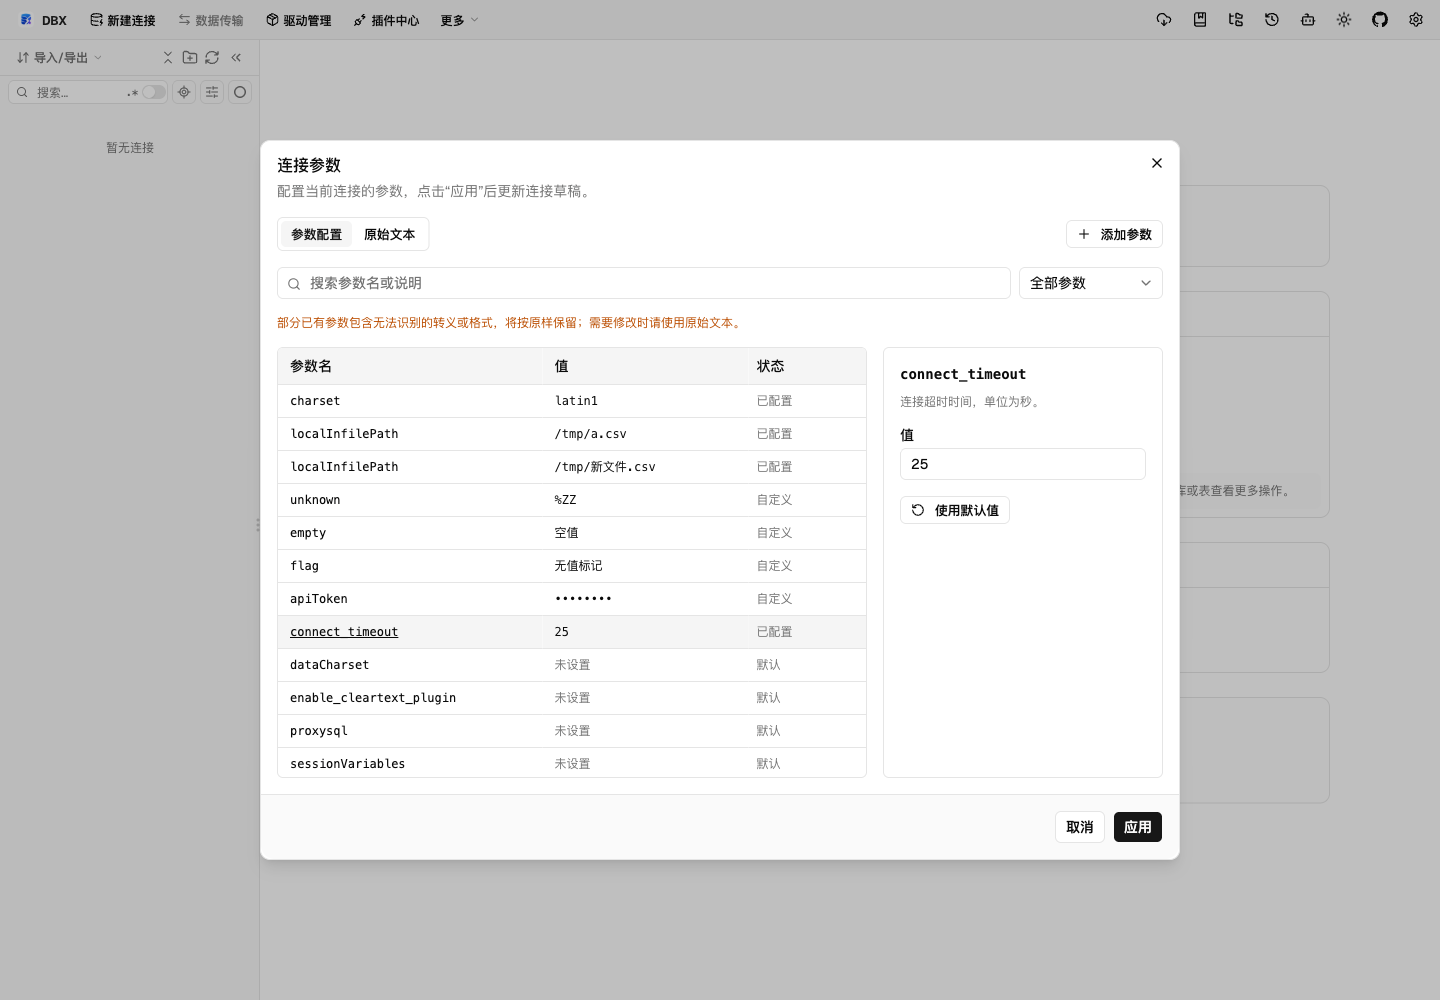
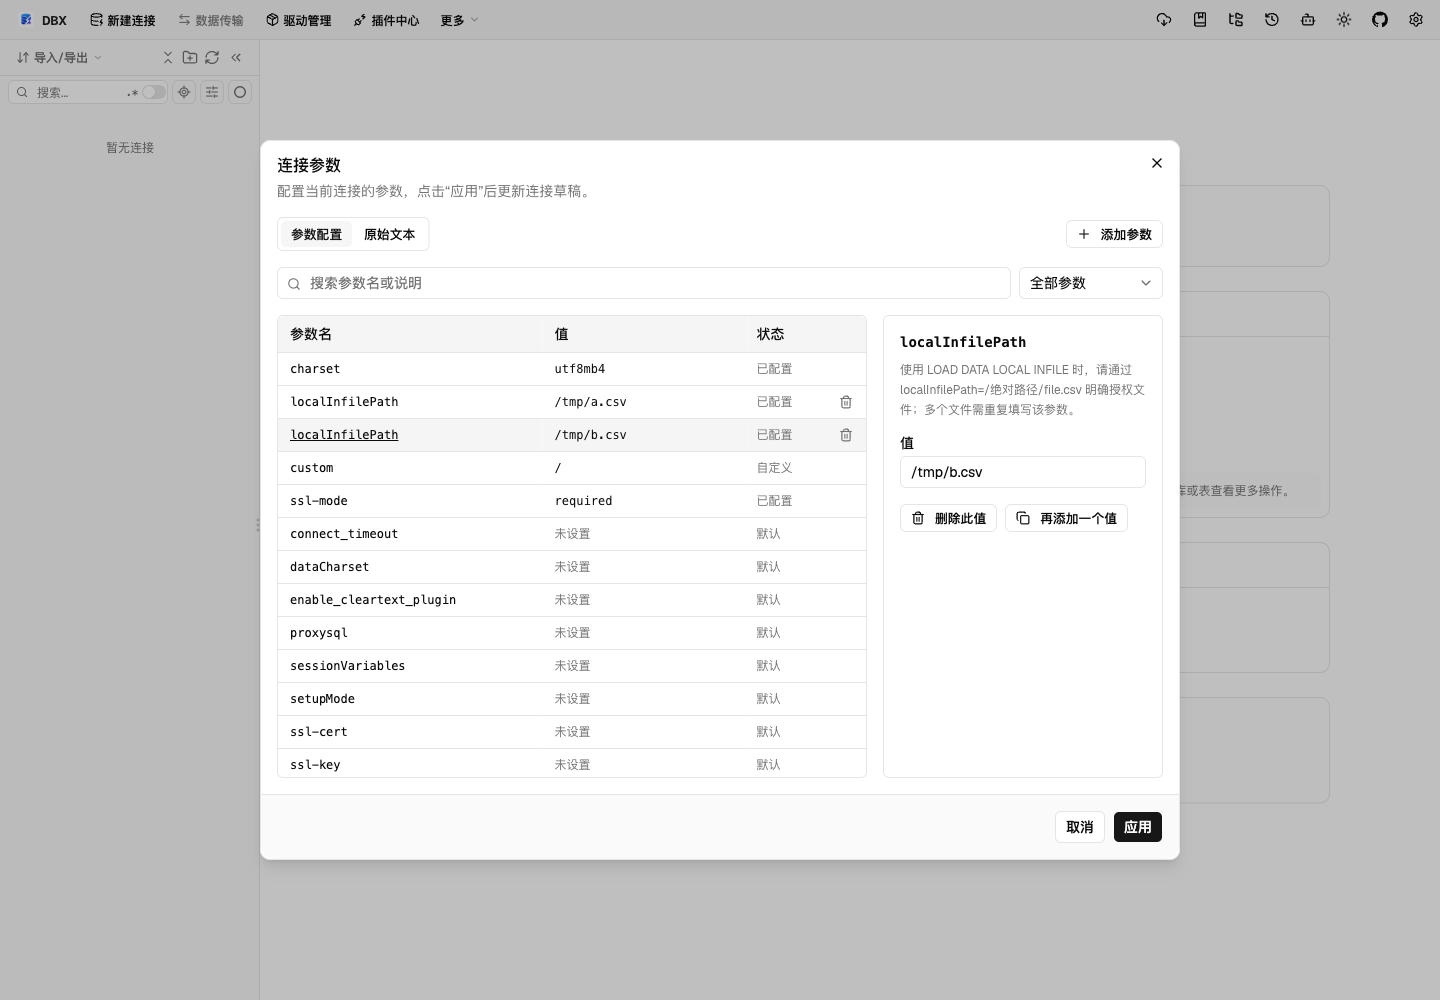
fix(connection): clarify repeated value removal and scope supported parameters

Changed region(s): [[0.1875, 0.31, 0.5938, 0.775], [0.625, 0.31, 0.7812, 0.527], [0.5312, 0.713, 0.5625, 0.775]]

diff --git a/apps/desktop/src/components/connection/ConnectionParametersDialog.vue b/apps/desktop/src/components/connection/ConnectionParametersDialog.vue
@@ -55,6 +55,7 @@ const filteredRows = computed(() => {
   return rows.value.filter((row) => (filter.value !== "configured" || !!row.entry) && (filter.value !== "custom" || (!!row.entry && !row.definition)) && (!query || `${row.key} ${description(row.definition)}`.toLowerCase().includes(query)));
 });
 const selected = computed(() => rows.value.find((row) => row.id === selectedId.value));
+const selectedChoices = computed(() => selected.value?.definition?.choices ?? ["true", "false"]);
 const serialized = computed(() => writeConnectionParameters(document.value, entries.value));
 const externalChanged = computed(() => open.value && ((props.modelValue ?? "") !== sourceAtOpen.value || contextIdentity.value !== contextAtOpen.value));
 const sensitive = computed(() => rows.value.some((row) => !!row.entry && (row.definition?.secret || parameterIsSecret(row.key))));
@@ -120,11 +121,14 @@ function addEntry(row?: Row) {
   search.value = "";
   selectedId.value = entry.id;
 }
-function removeEntry() {
-  if (!selected.value?.entry) return;
-  const definition = selected.value.definition;
-  entries.value = entries.value.filter((entry) => entry.id !== selectedId.value);
-  selectedId.value = definition && rows.value.some((row) => row.id === `default:${definition.name}`) ? `default:${definition.name}` : (rows.value[0]?.id ?? "");
+function removeEntry(id = selectedId.value) {
+  const row = rows.value.find((row) => row.id === id);
+  if (!row?.entry) return;
+  const index = entries.value.findIndex((entry) => entry.id === id);
+  entries.value = entries.value.filter((entry) => entry.id !== id);
+  if (selectedId.value !== id) return;
+  const sibling = row.definition && rows.value.find((item) => item.definition === row.definition);
+  selectedId.value = sibling?.id ?? entries.value[index]?.id ?? entries.value[index - 1]?.id ?? rows.value[0]?.id ?? "";
 }
 function apply() {
   if (externalChanged.value || invalid.value) return;
@@ -188,7 +192,12 @@ function rowValue(row: Row): string {
                     <button type="button" class="block w-full cursor-pointer truncate text-left font-mono text-xs hover:underline focus-visible:underline" :title="row.key" @click="selectedId = row.id">{{ row.key || tr("newParameter") }}</button>
                   </td>
                   <td class="truncate px-3 py-2 font-mono text-xs" :class="row.entry ? '' : 'text-muted-foreground'">{{ rowValue(row) }}</td>
-                  <td class="px-2 py-2 text-xs text-muted-foreground">{{ !row.entry ? tr("default") : row.definition ? tr("configured") : tr("custom") }}</td>
+                  <td class="px-2 py-1 text-xs text-muted-foreground">
+                    <div class="flex items-center justify-between gap-1">
+                      <span>{{ !row.entry ? tr("default") : row.definition ? tr("configured") : tr("custom") }}</span>
+                      <Button v-if="row.entry && row.definition?.repeatable" type="button" variant="ghost" size="icon" class="size-6 shrink-0" :aria-label="`${tr('removeValue')} (${row.key})`" @click="removeEntry(row.id)"><Trash2 class="size-3.5" /></Button>
+                    </div>
+                  </td>
                 </tr>
               </tbody>
             </table>
@@ -211,18 +220,13 @@ function rowValue(row: Row): string {
             <div class="space-y-1.5">
               <Label for="connection-parameter-value">{{ tr("value") }}<span v-if="selected.definition?.required"> *</span></Label>
               <PasswordInput v-if="selected.definition?.secret || parameterIsSecret(selected.key)" id="connection-parameter-value" :model-value="selected.value" :disabled="selected.entry && !selected.entry.editable" @update:model-value="setValue($event || '')" />
-              <select
-                v-else-if="selected.definition?.choices || selected.definition?.type === 'boolean'"
-                id="connection-parameter-value"
-                class="h-8 w-full rounded-md border bg-background px-2 text-sm"
-                :value="selected.entry ? selected.value : ''"
-                :disabled="selected.entry && !selected.entry.editable"
-                @change="setValue(($event.target as HTMLSelectElement).value)"
-              >
-                <option v-if="!selected.entry" value="" disabled>{{ tr("default") }}</option>
-                <option v-if="selected.entry && !(selected.definition.choices || ['true', 'false']).includes(selected.value)" :value="selected.value">{{ selected.value || tr("emptyValue") }}</option>
-                <option v-for="value in selected.definition.choices || ['true', 'false']" :key="value" :value="value">{{ value }}</option>
-              </select>
+              <Select :key="selected.id" v-else-if="selected.definition?.choices || selected.definition?.type === 'boolean'" :model-value="selected.value || undefined" :disabled="selected.entry && !selected.entry.editable" @update:model-value="setValue(String($event))">
+                <SelectTrigger id="connection-parameter-value" class="w-full"><SelectValue :placeholder="selected.entry ? tr('emptyValue') : tr('default')" /></SelectTrigger>
+                <SelectContent>
+                  <SelectItem v-if="selected.entry && selected.value && !selectedChoices.includes(selected.value)" :value="selected.value">{{ selected.value }}</SelectItem>
+                  <SelectItem v-for="value in selectedChoices" :key="value" :value="value">{{ value }}</SelectItem>
+                </SelectContent>
+              </Select>
               <Input
                 v-else
                 id="connection-parameter-value"
@@ -236,7 +240,9 @@ function rowValue(row: Row): string {
             </div>
             <label v-if="selected.entry?.editable && !selected.definition" class="flex items-center gap-2 text-xs"><input type="checkbox" :checked="!selected.entry.hasEquals" @change="selected.entry.hasEquals = !($event.target as HTMLInputElement).checked" />{{ tr("bareFlag") }}</label>
             <div class="flex flex-wrap gap-2">
-              <Button v-if="selected.entry" type="button" size="sm" variant="outline" @click="removeEntry"><RotateCcw v-if="selected.definition" class="mr-1.5 size-3.5" /><Trash2 v-else class="mr-1.5 size-3.5" />{{ selected.definition ? tr("reset") : tr("remove") }}</Button>
+              <Button v-if="selected.entry" type="button" size="sm" variant="outline" @click="removeEntry()"
+                ><RotateCcw v-if="selected.definition && !selected.definition.repeatable" class="mr-1.5 size-3.5" /><Trash2 v-else class="mr-1.5 size-3.5" />{{ selected.definition?.repeatable ? tr("removeValue") : selected.definition ? tr("reset") : tr("remove") }}</Button
+              >
               <Button v-if="selected.definition?.repeatable" type="button" size="sm" variant="outline" @click="addEntry(selected)"><Copy class="mr-1.5 size-3.5" />{{ tr("addAnother") }}</Button>
             </div>
           </div>

diff --git a/apps/desktop/src/lib/connection/connectionParameterCatalog.ts b/apps/desktop/src/lib/connection/connectionParameterCatalog.ts
@@ -24,7 +24,7 @@ export interface ConnectionParameterDefinition {
   descriptionKey?: string;
   source: "dbx" | "driver";
   /** Existing controls edit the same url_params string, rather than separate copies. */
-  managedBy?: "tls" | "charset" | "legacyEncoding";
+  managedBy?: "tls" | "charset";
 }
 
 export interface ConnectionParameterMetadata {
@@ -56,7 +56,6 @@ const POSTGRES_PARAMETERS = [
   param("connect_timeout", "integer", "Connection timeout in seconds.", "连接超时时间，单位为秒。", { min: 1 }),
   param("options", "string", "Server startup options, such as -c search_path=app,public.", "服务端启动选项，例如 -c search_path=app,public。"),
   param("currentSchema", "string", "Default schema translated by DBX into PostgreSQL startup options.", "默认 Schema；DBX 将其转换为 PostgreSQL 启动选项。"),
-  param("stringtype", "enum", "String bind type used by DBX's PostgreSQL driver.", "DBX PostgreSQL 驱动的字符串绑定类型。", { choices: ["unspecified", "varchar"] }),
   param("sslmode", "enum", "TLS mode, shared with the TLS/SSL tab.", "TLS 连接模式，与 TLS/SSL 页共用配置。", { choices: ["disable", "prefer", "require", "verify-ca", "verify-full"], managedBy: "tls" }),
   param("sslrootcert", "file", "Root CA certificate path.", "根 CA 证书路径。", { managedBy: "tls" }),
   param("sslcert", "file", "Client certificate path.", "客户端证书路径。", { managedBy: "tls" }),
@@ -66,7 +65,6 @@ const POSTGRES_PARAMETERS = [
 const ORACLE_PARAMETERS = [
   param("DBX_LEGACY_CHARSET", "enum", "Historical byte compatibility for US7ASCII databases using the Thin driver.", "Thin 驱动对 US7ASCII 数据库历史字节的兼容编码。", {
     choices: ["ZHS16GBK", "ZHS32GB18030", "AL32UTF8", "ZHT16MSWIN950"],
-    managedBy: "legacyEncoding",
     descriptionKey: "connection.oracleLegacyCharsetHint",
   }),
 ];
@@ -84,11 +82,22 @@ export function connectionParameterSyntax(context: ConnectionParameterContext): 
 
 export function connectionParameterCatalog(context: ConnectionParameterContext): ConnectionParameterDefinition[] {
   switch (context.db_type) {
-    case "mysql":
+    case "mysql": {
+      const profile = context.driver_profile?.trim().toLowerCase() ?? "";
+      // ConnectionConfig::needs_bare_mysql() routes these profiles through a fixed
+      // Compatible setup mode. URL normalization also drops charset and may force
+      // cleartext authentication; advertising those as overrides would be misleading.
+      const bare = ["doris", "selectdb", "starrocks", "oceanbase", "manticoresearch"].includes(profile);
       return [
-        ...MYSQL_PARAMETERS.filter((definition) => definition.name !== "dataCharset" || !context.driver_profile || context.driver_profile === "mysql"),
-        ...(["doris", "selectdb", "starrocks"].includes(context.driver_profile ?? "") ? [param("catalog", "string", "External catalog selected before the database.", "进入数据库前切换的外部 Catalog。")] : []),
+        ...MYSQL_PARAMETERS.filter((definition) => {
+          if (definition.name === "dataCharset" && profile && profile !== "mysql") return false;
+          if (bare && ["charset", "dataCharset", "setupMode", "proxysql", "enable_cleartext_plugin"].includes(definition.name)) return false;
+          if (bare && definition.managedBy === "tls" && !["doris", "starrocks"].includes(profile)) return false;
+          return true;
+        }),
+        ...(["doris", "selectdb", "starrocks"].includes(profile) ? [param("catalog", "string", "External catalog selected before the database.", "进入数据库前切换的外部 Catalog。")] : []),
       ];
+    }
     case "postgres":
     case "redshift":
       return [...POSTGRES_PARAMETERS];

diff --git a/apps/desktop/src/components/connection/ConnectionDialog.vue b/apps/desktop/src/components/connection/ConnectionDialog.vue
@@ -100,7 +100,6 @@ import {
   supportsIdleTimeout,
 } from "@/lib/connection/timeoutLimits";
 import { buildOracleTnsConnectionString, normalizeOracleTnsAdminPath, parseOracleTnsConnectionString } from "@/lib/connection/oracleTnsConnection";
-import { ORACLE_LEGACY_CHARSETS, oracleLegacyCharset, withOracleLegacyCharset } from "@/lib/connection/oracleLegacyCharset";
 import { applyConnectionDeepLinkUpdate, resolveConnectionDeepLinkUpdate } from "@/lib/connection/connectionDeepLinkUpdate";
 import {
   connectionDeepLinkServiceHydrationValue,
@@ -3690,13 +3689,6 @@ function persistOracleOciClientPath() {
  * global default for reuse.
  */
 const OCI_NLS_LANG_FOLLOW_GLOBAL = "__follow_global__";
-const ORACLE_LEGACY_CHARSET_DISABLED = "__disabled__";
-const oracleLegacyCharsetSelection = computed(() => oracleLegacyCharset(form.value.url_params) || ORACLE_LEGACY_CHARSET_DISABLED);
-function onOracleLegacyCharsetSelected(value: unknown) {
-  const charset = typeof value === "string" && value !== ORACLE_LEGACY_CHARSET_DISABLED ? value : "";
-  form.value.url_params = withOracleLegacyCharset(form.value.url_params, charset);
-  resetTestState();
-}
 const ORACLE_NLS_LANG_OPTIONS = [
   "AMERICAN_AMERICA.AL32UTF8",
   "AMERICAN_AMERICA.UTF8",
@@ -10957,26 +10949,6 @@ function openExternalUrl(url: string) {
                         <span class="text-sm text-muted-foreground">KiB</span>
                       </div>
                       <p class="text-xs text-muted-foreground">{{ t("settings.redisValuePreviewLimitDescription") }}</p>
-                    </div>
-                  </div>
-                </section>
-                <section v-if="form.db_type === 'oracle'" class="connection-advanced-section grid content-start gap-4 rounded-lg border p-4">
-                  <h3 class="text-base font-bold">{{ t("connection.advancedCompatibility") }}</h3>
-                  <div class="grid grid-cols-4 items-start gap-4">
-                    <Label :class="connectionLabelSmallPaddedClass">
-                      <span class="inline-flex items-center gap-1">{{ t("connection.oracleLegacyCharset") }} <HelpTooltip :label="t('connection.oracleLegacyCharsetHint')" /></span>
-                    </Label>
-                    <div class="col-span-3 space-y-1">
-                      <Select :model-value="oracleLegacyCharsetSelection" @update:model-value="onOracleLegacyCharsetSelected">
-                        <SelectTrigger class="w-full" :aria-label="t('connection.oracleLegacyCharset')">
-                          <SelectValue />
-                        </SelectTrigger>
-                        <SelectContent>
-                          <SelectItem :value="ORACLE_LEGACY_CHARSET_DISABLED">{{ t("connection.oracleLegacyCharsetDisabled") }}</SelectItem>
-                          <SelectItem v-for="charset in ORACLE_LEGACY_CHARSETS" :key="charset" :value="charset">{{ charset }}</SelectItem>
-                        </SelectContent>
-                      </Select>
-                      <p v-if="oracleLegacyCharsetSelection !== ORACLE_LEGACY_CHARSET_DISABLED" class="text-xs text-muted-foreground">{{ t("connection.oracleLegacyCharsetHint") }}</p>
                     </div>
                   </div>
                 </section>

diff --git a/apps/desktop/src/lib/connection/connectionParameterCatalog.spec.ts b/apps/desktop/src/lib/connection/connectionParameterCatalog.spec.ts
@@ -1,0 +1,35 @@
+import { describe, expect, it } from "vitest";
+import { connectionParameterCatalog } from "./connectionParameterCatalog";
+
+const names = (db_type: string, driver_profile?: string) => connectionParameterCatalog({ db_type, driver_profile }).map((parameter) => parameter.name);
+
+describe("transport-specific connection parameter catalog", () => {
+  it("does not advertise the ignored PostgreSQL JDBC stringtype compatibility parameter", () => {
+    for (const type of ["postgres", "redshift"]) {
+      expect(names(type)).not.toContain("stringtype");
+      expect(names(type)).toContain("currentSchema");
+    }
+  });
+  it.each(["doris", "selectdb", "starrocks", "oceanbase", "manticoresearch"])("omits ignored or fixed initialization settings for the %s MySQL profile", (profile) => {
+    const supported = names("mysql", profile);
+    for (const ignored of ["charset", "dataCharset", "setupMode", "proxysql", "enable_cleartext_plugin"]) expect(supported).not.toContain(ignored);
+    expect(supported).toContain("localInfilePath");
+    expect(supported).toContain("sessionVariables");
+  });
+  it("limits TLS and catalog overrides to the compatible profiles that implement them", () => {
+    expect(names("mysql", "oceanbase")).not.toContain("ssl-mode");
+    expect(names("mysql", "selectdb")).not.toContain("ssl-cert");
+    expect(names("mysql", "selectdb")).toContain("catalog");
+    for (const profile of ["doris", "starrocks"]) expect(names("mysql", profile)).toContain("ssl-mode");
+  });
+  it("offers native MySQL initialization settings and scopes dataCharset to native MySQL", () => {
+    expect(names("mysql")).toEqual(expect.arrayContaining(["charset", "setupMode", "proxysql", "dataCharset"]));
+    expect(names("mysql", " MySQL ")).toContain("dataCharset");
+    for (const profile of ["mariadb", "tidb", "dolt"]) expect(names("mysql", profile)).not.toContain("dataCharset");
+  });
+  it("offers Oracle byte compatibility only in Thin mode without a duplicate form setting", () => {
+    expect(names("oracle")).toEqual(["DBX_LEGACY_CHARSET"]);
+    expect(connectionParameterCatalog({ db_type: "oracle" })[0].managedBy).toBeUndefined();
+    expect(names("oracle", "oci")).toEqual([]);
+  });
+});

diff --git a/apps/desktop/src/components/connection/__tests__/ConnectionParametersDialog.spec.ts b/apps/desktop/src/components/connection/__tests__/ConnectionParametersDialog.spec.ts
@@ -101,6 +101,38 @@ describe("connection parameter editor transaction and legacy compatibility", () 
     await click("Apply");
     expect(state.applied).toEqual(["localInfilePath=/one&localInfilePath=%2Fthree%20%E4%B8%AD%E6%96%87.csv"]);
   });
+  it("deletes an added repeatable value without changing existing bytes", async () => {
+    const source = "unknown=%ZZ&localInfilePath=%2fone&flag";
+    const state = await mount(source);
+    await click("localInfilePath");
+    await click("Add another value");
+    await fill("connection-parameter-value", "/two");
+    await click("Delete value");
+    expect(valueInput().value).toBe("/one");
+    await click("Apply");
+    expect(state.applied).toEqual([source]);
+  });
+  it("deletes one repeated row directly while retaining the selected sibling", async () => {
+    const state = await mount("localInfilePath=/one&unknown=%ZZ&localInfilePath=%2ftwo");
+    const names = [...document.querySelectorAll<HTMLButtonElement>("button")].filter((element) => element.textContent?.trim() === "localInfilePath");
+    names[1].click();
+    await tick();
+    document.querySelector<HTMLButtonElement>('button[aria-label="Delete value (localInfilePath)"]')!.click();
+    await tick();
+    expect(valueInput().value).toBe("/two");
+    await click("Apply");
+    expect(state.applied).toEqual(["unknown=%ZZ&localInfilePath=%2ftwo"]);
+  });
+  it("can delete all repeatable values and leave the supported parameter unconfigured", async () => {
+    const state = await mount("localInfilePath=/one&localInfilePath=/two&unknown=%2f");
+    await click("localInfilePath");
+    await click("Delete value");
+    await click("Delete value");
+    expect(document.querySelector('button[aria-label="Delete value (localInfilePath)"]')).toBeNull();
+    expect(valueInput().value).toBe("");
+    await click("Apply");
+    expect(state.applied).toEqual(["unknown=%2f"]);
+  });
   it("adding a typed parameter does not persist all the displayed defaults", async () => {
     const state = await mount();
     await click("connect_timeout");

diff --git a/apps/desktop/src/i18n/locales/zh-CN.ts b/apps/desktop/src/i18n/locales/zh-CN.ts
@@ -1491,6 +1491,7 @@ export default withEnglishFallback({
       sharedSetting: "此参数与连接表单中的专用设置共用同一份配置，应用后两处同步更新。",
       reset: "使用默认值",
       remove: "删除",
+      removeValue: "删除此值",
       addAnother: "再添加一个值",
       noMatches: "没有匹配的参数，可通过上方按钮添加自定义参数。",
       opaqueHint: "部分已有参数包含无法识别的转义或格式，将按原样保留；需要修改时请使用原始文本。",

diff --git a/apps/desktop/src/i18n/locales/en.ts b/apps/desktop/src/i18n/locales/en.ts
@@ -1555,6 +1555,7 @@ export default {
       sharedSetting: "This parameter shares its value with an existing connection setting. Applying updates both views.",
       reset: "Use default",
       remove: "Remove",
+      removeValue: "Delete value",
       addAnother: "Add another value",
       noMatches: "No matching parameters. Custom parameters can be added above.",
       opaqueHint: "Some existing parameters contain an unrecognized escape or format. They are preserved unchanged; use raw text to edit them.",
